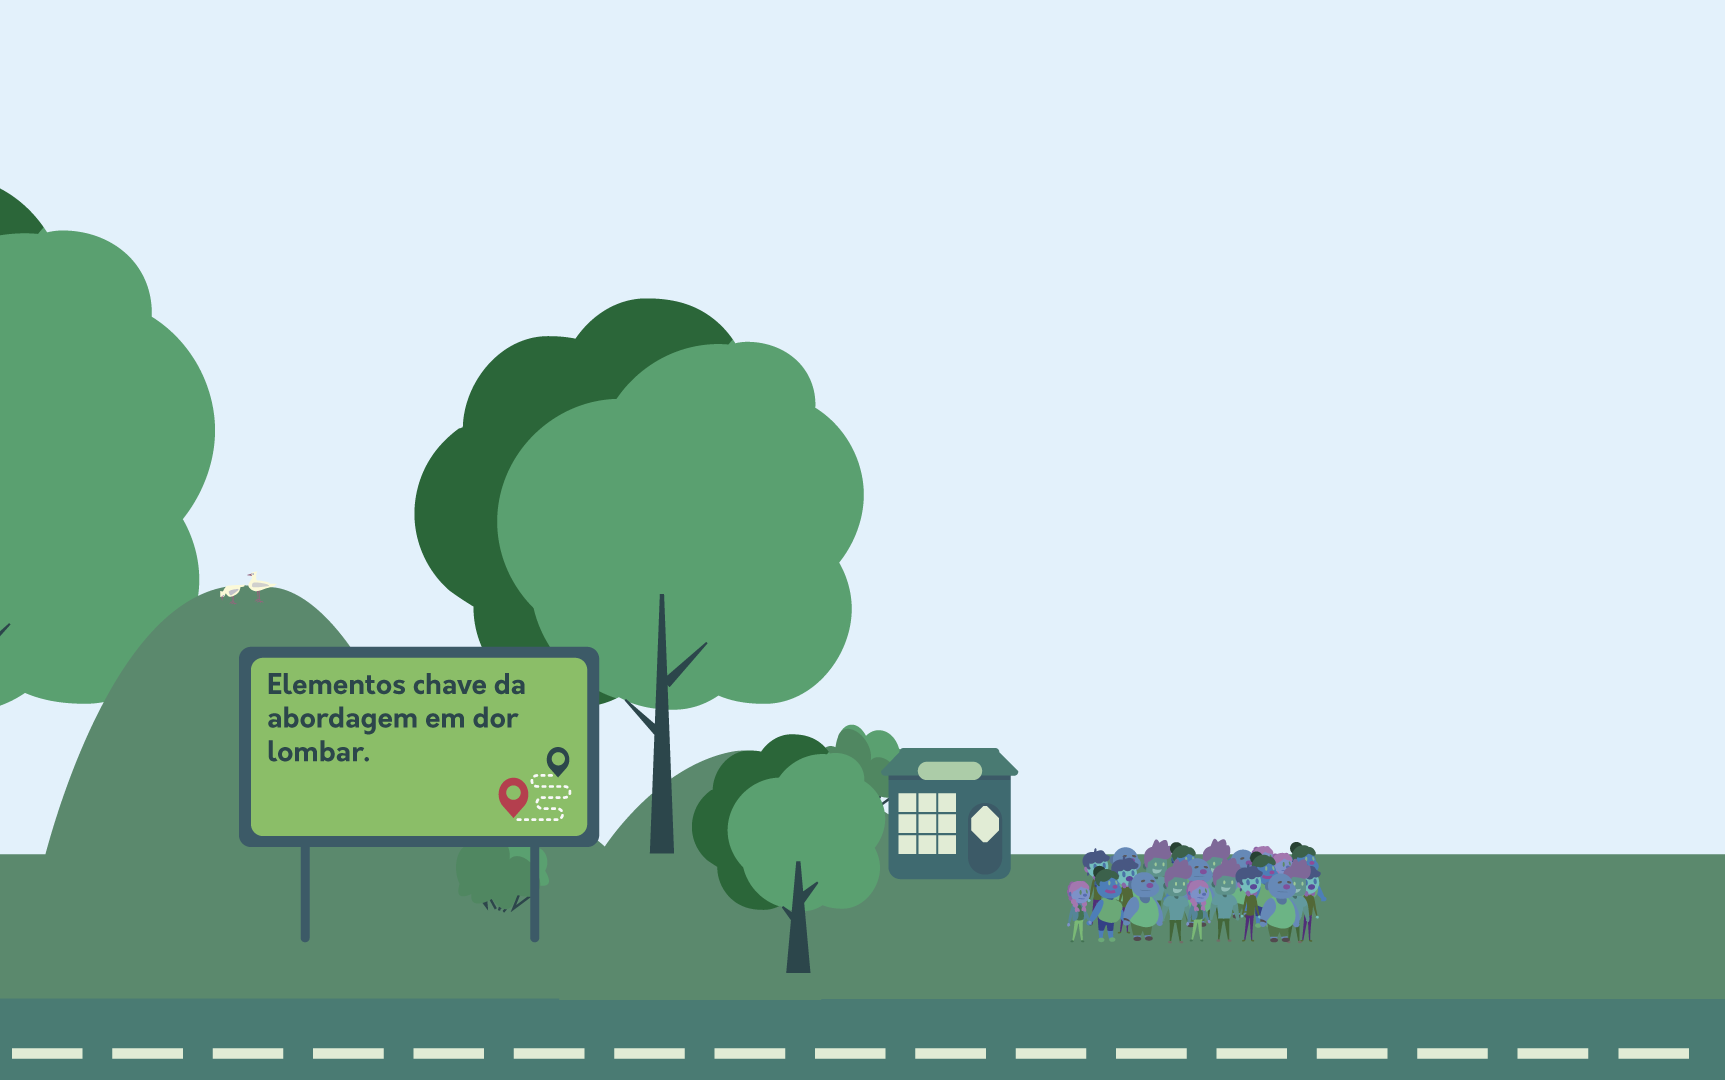
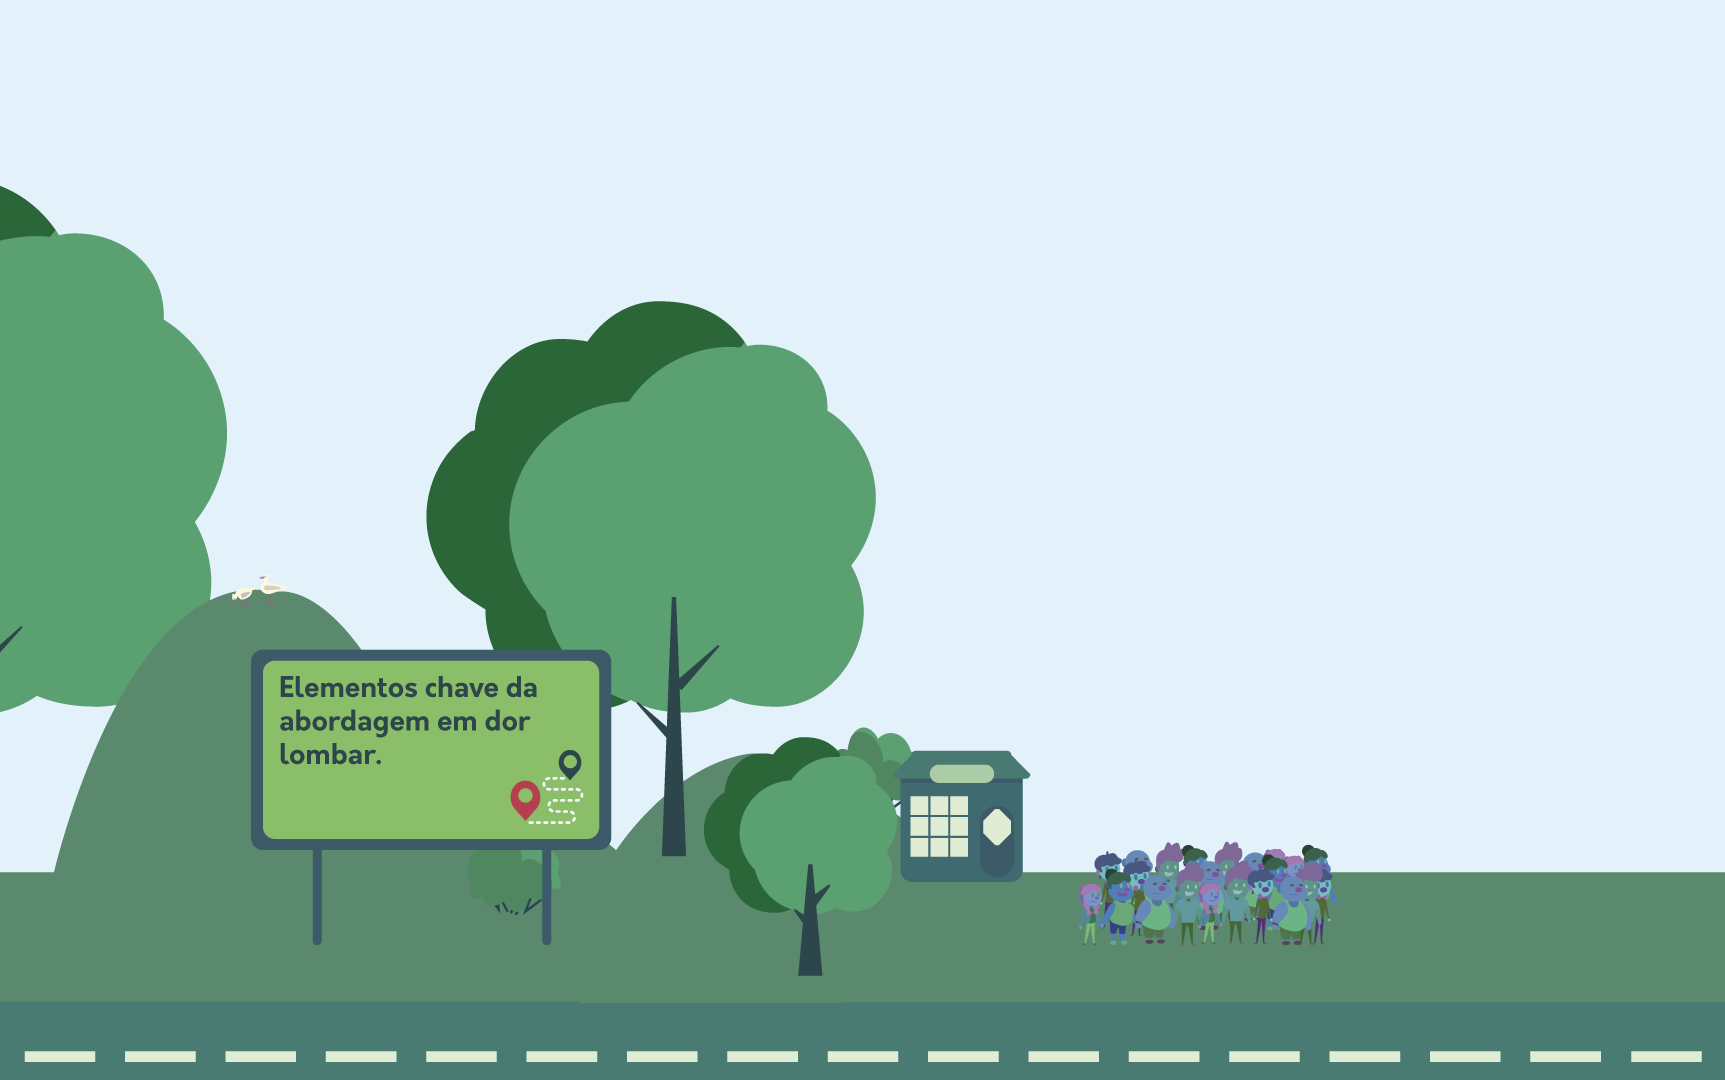
ajustes finais

diff --git a/style/style.css b/style/style.css
@@ -207,7 +207,7 @@ body {
 }
 .manu{
     position: absolute;
-    left: -173px;
+    left: -168px;
     top: calc(101vh - 232px);
     width: auto;
     height: 84px;
@@ -270,7 +270,7 @@ body {
     position: absolute;
     height: 41px;
     left: 41px;
-    top: calc(100vh - 612px);
+    top: calc(100vh - 635px);
     background-size: 100% !important;
     width: 25px;
     background-repeat: no-repeat;
@@ -409,7 +409,7 @@ body {
 /*PALCO*/
 .palco{
     position: absolute;
-    left: -233px;
+    left: -224px;
     top: calc(100vh - 339px);
     width: auto;
     height: 253px;
